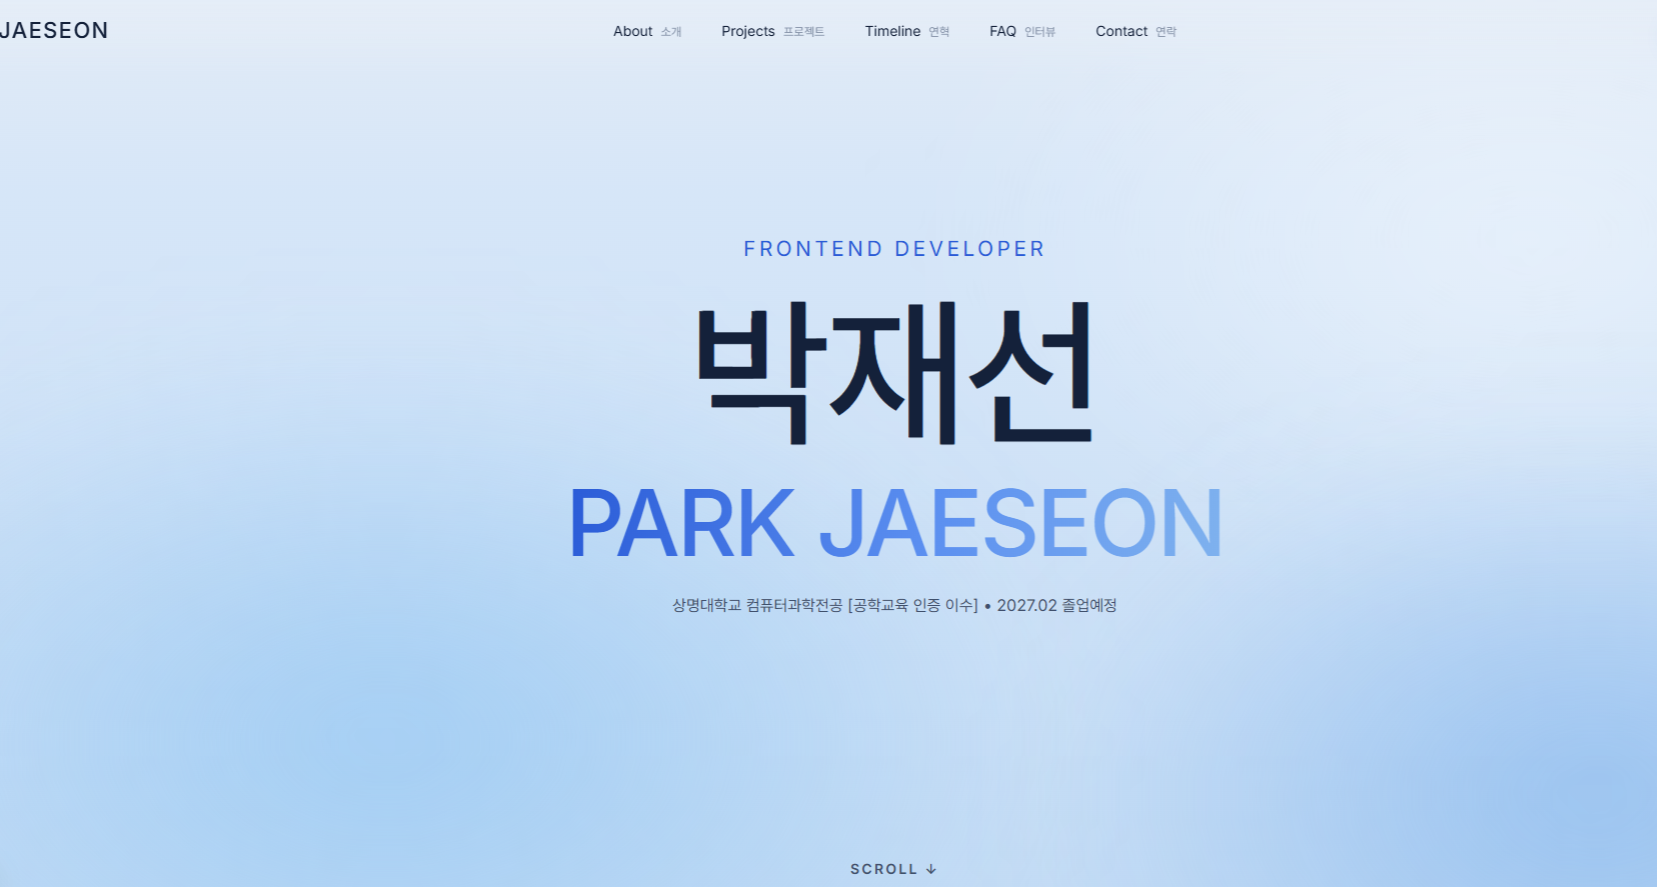
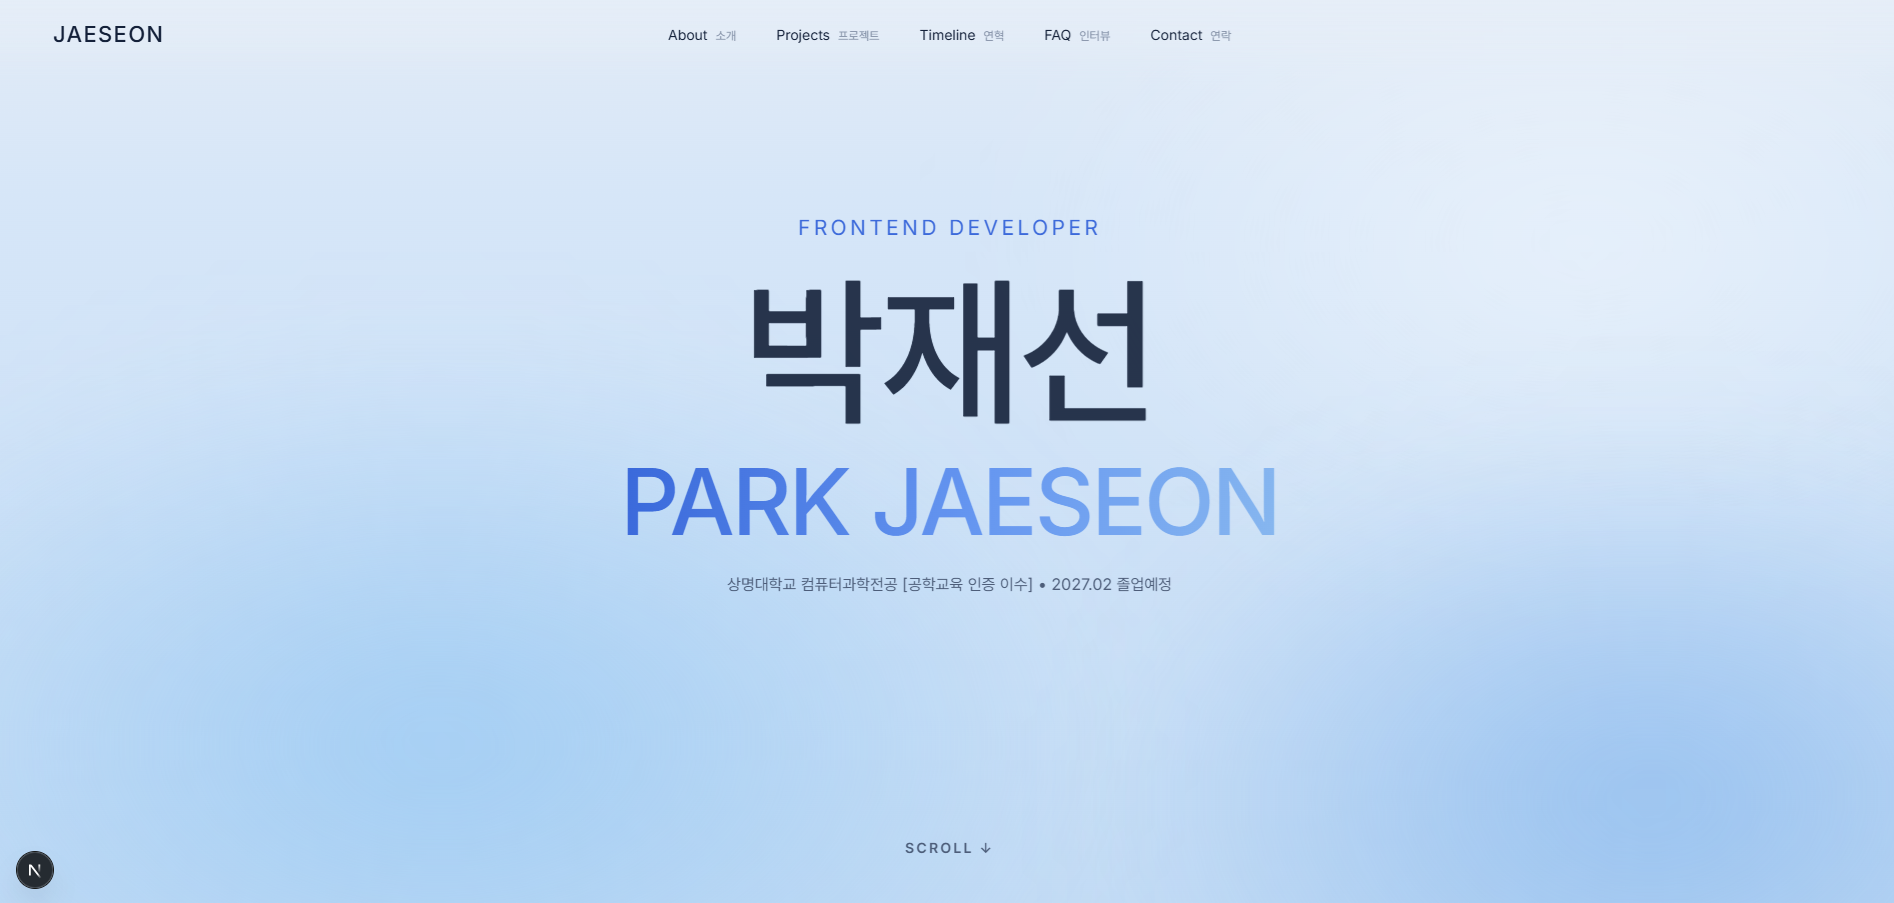
feat: 개인포트폴리오 카드 내용 추가

diff --git a/components/Projects/ProjectsData.ts b/components/Projects/ProjectsData.ts
@@ -15,7 +15,7 @@ export const PROJECTS: IProject[] = [
       "마케터가 흩어진 광고 성과를 한곳에서 모니터링하고 분석할 수 있는 B2B 웹 플랫폼입니다. 팀 리더로서 일정 관리, 의견 조율, 발표를 맡았고, 프론트엔드에서는 워크스페이스, 알림, 설정, 타임라인 화면을 개발했습니다. 처음 써 보는 Service Worker로 탭을 닫아도 울리는 브라우저 푸시 알림을 구현했습니다. 이때 설정 토글이 켜진 것과 브라우저가 실제로 구독된 것은 다른 상태라는 점을 알고, 저장할 때만 구독이 반영되게 나눴습니다.",
     links: [
       { label: "GitHub", href: "aa" },
-      { label: "라이브 DEMO", href: "bb" },
+      { label: "LIVE DEMO", href: "bb" },
     ],
     techChoices: [
       {
@@ -54,7 +54,7 @@ export const PROJECTS: IProject[] = [
       "지도에서 식당을 찾아 예약하는 웹 서비스입니다. 프론트엔드 리더로서 식당 검색부터 메뉴, 시간, 자리 선택, 결제, 결제 확인까지 이어지는 사용자 흐름 전체를 맡아 개발했습니다.",
     links: [
       { label: "GitHub", href: "cc" },
-      { label: "라이브 DEMO", href: "dd" },
+      { label: "LIVE DEMO", href: "dd" },
     ],
     techChoices: [
       {
@@ -81,40 +81,90 @@ export const PROJECTS: IProject[] = [
   },
   {
     name: "개인 포트폴리오",
-    period: "2026.09 - 2026.10",
+    period: "2026.10 - 2026.11",
     org: "개인 프로젝트",
     summary: "지금 보고 계신 이 사이트입니다",
     metric: "반응형 기반 포트폴리오 구현",
     role: "기획 • 디자인 • 개발 전체",
-    team: "example",
-    contributions: ["a", "b"],
-    stack: ["Next.js", "TypeScript", "vanilla-extract", "GSAP", "Motion"],
-    description: "보고 계신 이 사이트입니다",
+    team: "1인 (개인 프로젝트)",
+    contributions: [
+      "Next.js와 TypeScript 기반 개발 환경 구축",
+      "ESLint, Prettier, Husky, Github Actions로 코드 품질 관리",
+      "vanilla-extract로 CSS 모듈화",
+      "GSAP와 Motion으로 애니메이션 구현",
+      "반응형 기반 포트폴리오 구현",
+      "GitHub Pages로 자동배포",
+    ],
+    stack: [
+      "Next.js",
+      "TypeScript",
+      "vanilla-extract",
+      "GSAP",
+      "Motion",
+      "Github Pages",
+      "Github Actions",
+    ],
+    description:
+      "Frontend Developer 박재선의 소개 포트폴리오 사이트입니다. 개발 경험과 같이 어떤 개발자인지 확인할 수 있습니다.",
     links: [
-      { label: "GitHub", href: "ee" },
-      { label: "라이브 DEMO", href: "ff" },
+      { label: "GitHub", href: "https://github.com/jjjsun/jjjsun.github.io" },
+      { label: "LIVE DEMO", href: "https://jjjsun.github.io/" },
     ],
     techChoices: [
       {
-        tech: "ApexCharts",
-        reason: "reason",
+        tech: "Next.js",
+        reason:
+          "지금까지 React만 사용했어서 새로운 프레임워크를 써보고 싶어 선택했습니다. Server Component와 Client Component를 나눠 쓰면서 렌더링 방식의 차이점을 직접 경험하고 싶었습니다.",
       },
-      { tech: "TailwindCSS", reason: "reason" },
+      {
+        tech: "TypeScript",
+        reason:
+          "JavaScript에 타입 정의로 런타임 전에 오류를 잡고, 코드의 안정성을 확보하기 위해 선택했습니다.",
+      },
+      {
+        tech: "vanilla-extract",
+        reason:
+          "지금까지 TailwindCSS만 써 와서, 다른 스타일링 방식과 비교해보고 싶어 선택했습니다. 두 방식의 장단점을 직접 경험하는 것이 목표였습니다.",
+      },
+      {
+        tech: "GSAP",
+        reason:
+          "다른 사이트에서 만들고 싶은 연출을 발견하여 개발자 도구로 확인해 보니 GSAP를 사용하고 있어 직접 적용하고 싶어 선택했습니다.",
+      },
+      {
+        tech: "Motion",
+        reason:
+          "애니메이션이 처음이라 React 컴포넌트에서 쉽게 시작할 수 있는 라이브러리로 선택했습니다.",
+      },
+      {
+        tech: "Github Actions",
+        reason: "PR 병합 전 lint 검사 자동 실행으로 코드 품질을 유지하기 위해 선택했습니다.",
+      },
+      {
+        tech: "Github Pages",
+        reason:
+          "코드 관리에 Github 사용중이어서, main에 push하면 바로 배포까지 이어지는 간편함 때문에 선택했습니다.",
+      },
     ],
     troubleshootings: [
       {
-        title: "aexample",
-        problem: "a",
-        reason: "a",
-        solution: "a",
-        result: "a",
+        title: "스크롤 핀 구간에서 활성 카드가 화면과 어긋나는 문제",
+        problem:
+          "Projects 섹션에서 스크롤을 빠르게 움직이면, 화면에는 이전 카드가 보이는데 이미 다음 카드가 활성 상태가 되어있었습니다. 이전 카드는 클릭과 포커스가 막히고, nav 번호도 먼저 바뀌어 있었습니다.",
+        reason:
+          "활성 카드를 스크롤 진행도로 계산했는데, scrub: 1 설정 때문에 애니메이션은 스크롤을 약 1초 늦게 따라갑니다. 그래서 스크롤 위치와 화면에 그려진 위치가 달랐고, 상태가 화면보다 앞서갔습니다.",
+        solution:
+          "스크롤 진행도 대신 타임라인의 실제 진행도를 기준으로, 타임라인의 onUpdate 콜백에서 활성 카드를 계산하도록 바꿨습니다.",
+        result: "화면에 보이는 카드, 클릭이 가능한 카드, nav 표시가 항상 일치하게 되었습니다.",
       },
     ],
     retrospective: {
-      learned: "a",
-      apply: "a",
+      learned:
+        "TailwindCSS는 요소를 만들면서 바로 className으로 스타일링을 쓸 수 있어서 빠르지만, 마크업과 스타일링이 하나의 파일에 같이 있어서 코드가 길어지고 수정할때 여러 곳을 일일이 고치는 단점이 있었습니다. 반면에 vanilla-extract는 스타일링을 css.ts로 분리해서 요소 코드에서는 className만 불러 쓰면 되기에 유지보수는 더 간편했습니다. 하지만 컴포넌트마다 css.ts 파일을 만들어야하기 때문에 파일 수가 늘어난다는 점이 번거로웠습니다.",
+      apply:
+        "어떤 스타일링을 쓰든, 기획 단계에서 디자인 토큰을 먼저 정의하고 그 안에서만 쓰는 것이 일관성과 유지보수를 위해 가장 중요하다고 느꼈습니다. 이후 프로젝트 개발에서도 코드 개발 전 토큰부터 정리하고 시작하려 합니다.",
     },
-    videoUrl: "https://www.youtube.com/embed/a", //임시.  개발완료 후 실제 URL로 교체 예정
+    videoUrl: "https://www.youtube.com/embed/a", //임시.  개발완료 후 동영상 제작하여 실제 URL로 교체 예정
     thumbnail: "/images/portfolio.png",
   },
 ];
